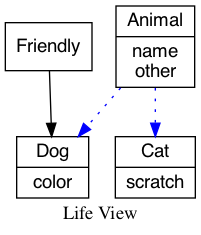
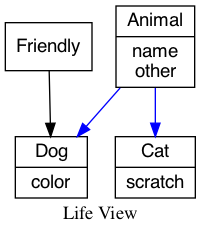
Allow to declare entities while add dependency call

diff --git a/lib/graphy/dsl.rb b/lib/graphy/dsl.rb
@@ -1,19 +1,10 @@
 module Graphy
   class Dsl
-    @registry = {}
-    @edges = []
-
-    def self.registry
-      @registry
-    end
-
-    def self.edges
-      @edges
-    end
+    attr_accessor :graph
 
     def initialize(name, options = {}, &block)
       @graph = GraphViz.new(name, map_options(options.merge(label: name)))
-      instance_eval(&block) if block
+      instance_eval(&block) if block_given?
     end
 
     def namespace(name, &block)
@@ -30,35 +21,25 @@ module Graphy
     end
 
     def node(name, shape: 'circle', &block)
-      return graph.get_node(name) unless graph.get_node(name.to_s).nil?
-
-      node = Node.new(name, graph: graph, shape: shape)
-      node.instance_eval(&block) if block_given?
-      Dsl.registry[name] = node
+      options = {graph: graph, shape: shape}
+      Node.find_or_create(name, options: options, &block)
     end
 
     def entity(name, parent = nil, &block)
-      return graph.get_node(name) unless graph.get_node(name.to_s).nil?
+      return Registry.instance.nodes[name] if Registry.instance.node?(name)
 
-      entity = Entity.new(name, graph: graph)
-      entity.add_dependency(parent, type: :parent) if parent
-      entity.instance_eval(&block) if block_given?
-      Dsl.registry[name] = entity
+      entity = Entity.new(name: name, graph: graph)
+      entity.build(&block)
+      entity.add_dependency(parent, color: 'blue') if parent
+      Registry.instance.nodes[name] = entity
     end
 
-    def step(from, to:, options: {})
-      return if Dsl.edges.any? { |x| [from, to] == x }
-      source = Dsl.registry[from].graph_node
-      dest = Dsl.registry[to].graph_node
+    def step(from, to:, **options)
+      source = Registry.instance.nodes[from]
+      dest = Registry.instance.nodes[to]
       return if source.nil? || dest.nil?
 
-      Dsl.edges << [from, to]
-      graph.add_edge(source, dest, options)
-    end
-
-    def graph
-      build
-      @graph
+      dest.add_dependency(source, **options)
     end
 
     def write(options = {})
@@ -66,14 +47,6 @@ module Graphy
     end
 
     private
-
-    def build
-      Dsl.registry.each do |name, node|
-        node.dependencies.each do |dep|
-          step(dep.ref, to: name, options: dep.edge_attributes)
-        end
-      end
-    end
 
     def map_options(options = {})
       align = options.delete(:align)

diff --git a/lib/graphy/node.rb b/lib/graphy/node.rb
@@ -1,23 +1,44 @@
 module Graphy
   class Node
-    attr_accessor :graph, :name, :shape, :penwidth, :fontsize, :style, :fillcolor, :dependencies
-    def initialize(name, graph:, shape: 'circle')
-      @name = name
-      @graph = graph
-      @shape = shape
-      @dependencies = []
+    attr_accessor :graph, :name, :shape, :penwidth, :fontsize, :style, :fillcolor
+
+    def self.find_or_create(name, options: {}, &block)
+      return Registry.instance.nodes[name] if Registry.instance.node?(name)
+      node = self.new(options.merge(name: name))
+      node.build(&block)
+      Registry.instance.nodes[name] = node
+    end
+
+    def initialize(**params)
+      @name = params[:name].to_s
+      @graph = params[:graph]
+      @shape = params.fetch(:shape, 'circle')
     end
 
     def graph_node
-      @graph_node ||= graph.add_nodes(name, node_attributes)
+      @graph_node ||= build_graph_node
     end
 
-    def add_dependency(dependency, type: nil)
-      @dependencies << Dependency.for(dependency, type: type)
+    def add_dependency(node, **options)
+      node = self.class.find_or_create(node) unless node.is_a?(Node)
+      return if Registry.instance.edge?(name, node.name)
+
+      Registry.instance.edges << [name, node.name]
+      graph.add_edge(node.graph_node, graph_node, options)
     end
     alias :uses :add_dependency
 
+    def build(&block)
+      instance_eval(&block) if block_given?
+      build_graph_node
+    end
+
     protected
+
+    def build_graph_node
+      return graph.get_node(name) if graph.get_node(name)
+      graph.add_nodes(name, node_attributes)
+    end
 
     def node_attributes
       {

diff --git a/lib/graphy/entity.rb b/lib/graphy/entity.rb
@@ -1,7 +1,7 @@
 module Graphy
   class Entity < Node
-    def initialize(name, graph:)
-      super(name, graph: graph, shape: 'record')
+    def initialize(**params)
+      super(params.merge(shape: 'record'))
       @attributes = []
     end
 
@@ -19,7 +19,7 @@ module Graphy
 
     def attributes_label
       return if @attributes.empty?
-      "| #{@attributes.join("\n")}" 
+      "| #{@attributes.join("\n")}"
     end
   end
 end

diff --git a/lib/graphy/registry.rb b/lib/graphy/registry.rb
@@ -1,0 +1,21 @@
+require 'singleton'
+
+module Graphy
+  class Registry
+    include Singleton
+    attr_accessor :nodes, :edges
+
+    def initialize
+      @nodes = {}
+      @edges = []
+    end
+
+    def node?(name)
+      nodes.key?(name)
+    end
+
+    def edge?(source, destiny)
+      edges.any? { |x| [source, destiny] == x }
+    end
+  end
+end

diff --git a/lib/graphy.rb b/lib/graphy.rb
@@ -1,8 +1,8 @@
 require 'graphviz'
 require 'graphy/node'
 require 'graphy/entity'
-require 'graphy/dependency'
 require 'graphy/dsl'
+require 'graphy/registry'
 require 'graphy/version'
 
 module Graphy

diff --git a/lib/graphy/version.rb b/lib/graphy/version.rb
@@ -1,3 +1,3 @@
 module Graphy
-  VERSION = '0.1.0'.freeze
+  VERSION = '0.1.1'.freeze
 end
